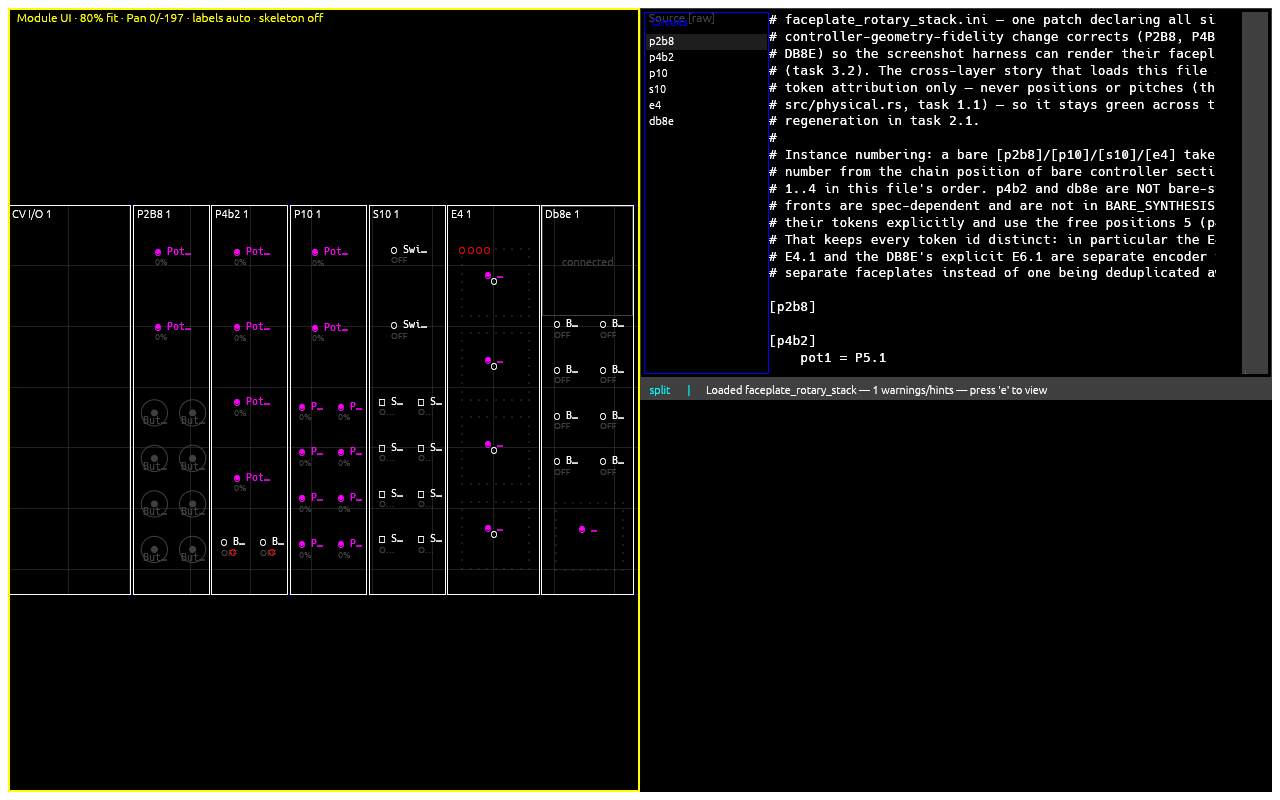
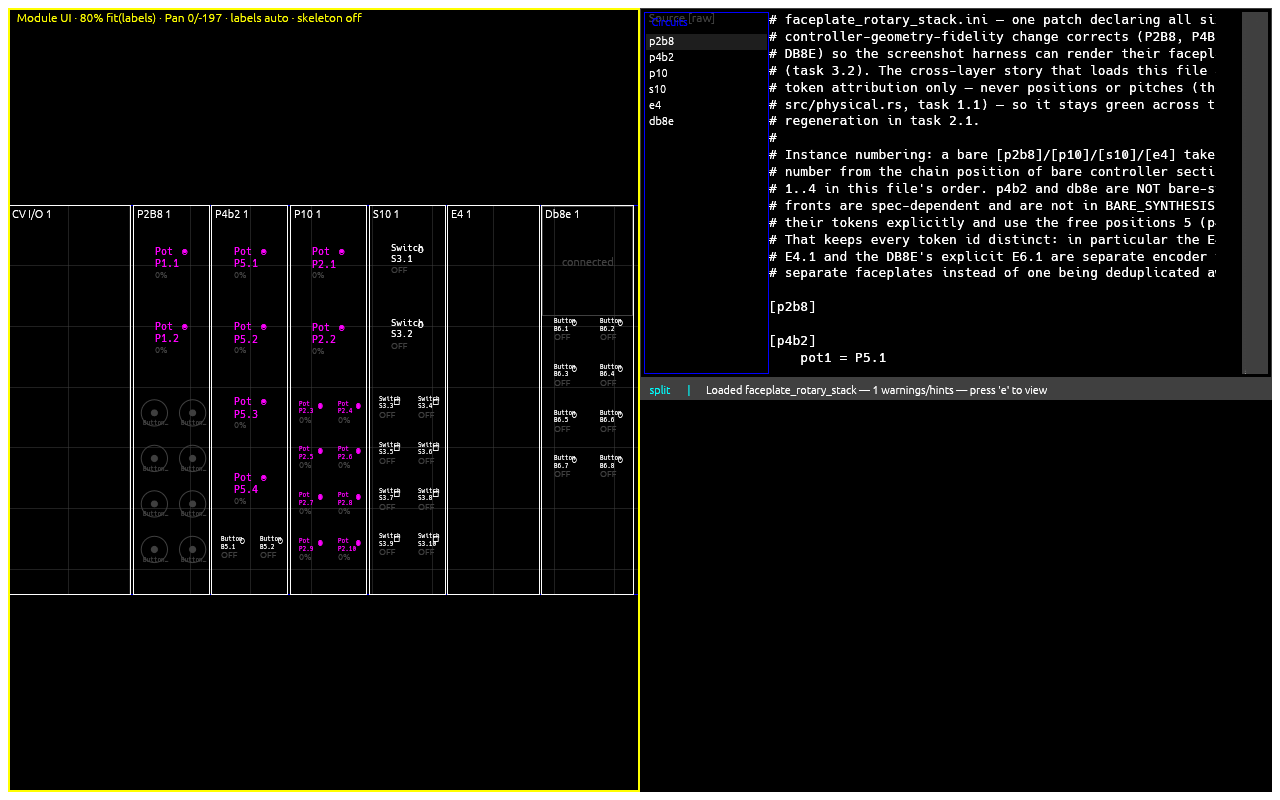
3.4: docs and shots show the labels fit, the rack fit and the ladder

diff --git a/tools/screenshots/src/main.rs b/tools/screenshots/src/main.rs
@@ -65,6 +65,8 @@ pub mod patch;
 pub mod performance;
 #[path = "../../../src/physical.rs"]
 pub mod physical;
+#[path = "../../../src/platform.rs"]
+pub mod platform;
 #[path = "../../../src/plugin.rs"]
 pub mod plugin;
 #[path = "../../../src/rendermetrics.rs"]
@@ -131,23 +133,23 @@ struct Shot {
 
 fn setup_startup(_app: &mut App) {}
 
-/// The annotation-layer shot (change `module-ui-labels`, task 3.4): the startup
-/// arrangement at true 1:1, the size `fixtures/module_ui_labels.ini`'s preamble
-/// labels were chosen for — at 1:1 a 9 mm B32 button cell budgets five 10 pt
-/// characters, so "Trigger input" and "Clock reset" clip while "Go" fits, and
-/// the default `auto` presentation annotates exactly the two clipped labels.
+/// The rack-fit overview (change `module-ui-label-fit`, task 3.4): the module
+/// UI's `Shift+F` state — the whole rack fitted to the pane and centred, with no
+/// label lift — beside `module-ui-labels.png`'s labels fit.
 ///
-/// The startup fit would scale this ~91 mm rack past 1:1 (the harness pane is
-/// taller than one true-size rack), which both hides the clipping and leaves no
-/// side band for the callouts, so the shot pins the zoom. The camera is centred
-/// for the pinned zoom without hard-coding a layout number: the startup pane is
-/// published through the same `refresh_hit_geometry` call the first painted
-/// frame makes, one fit gives the rack's real extent (the fit offset is
-/// `(rack·zoom − pane)/2` per axis), and the pinned offset re-centres that same
-/// extent. The manual-navigation latch then keeps the pane-resize trigger from
-/// refitting over the pinned camera. Field writes before paint only —
+/// `fixtures/physical_multirow_rack.ini` packs seventeen faceplates into one
+/// ~457 mm row, so the rack fit lands at 37 % and the cells are far too small for
+/// most labels: only the 12 mm pot cells still hold a two-line floor-step label,
+/// and every 9 mm button, 3 mm LED and switch cell renders without text. That is
+/// the trade the overview makes, and the pane title says `fit(rack)` so the state
+/// reads as requested rather than as a regression.
+///
+/// The startup pane is published through the same `refresh_hit_geometry` call
+/// the first painted frame makes, so the fit measures the pane actually drawn.
+/// The manual-navigation latch then keeps the first frame's labels fit from
+/// overwriting the rack fit this shot is about. Field writes before paint only —
 /// deterministic, no input.
-fn setup_labels_auto(app: &mut App) {
+fn setup_rack_fit(app: &mut App) {
     setup_startup(app);
     app.refresh_hit_geometry(app::Rect::new(0, 0, VIEWPORT.0 as u16, VIEWPORT.1 as u16));
     let Some((_, pane)) = app
@@ -158,22 +160,7 @@ fn setup_labels_auto(app: &mut App) {
         return;
     };
     let (pane_w, pane_h) = (pane.width as f32, pane.height as f32);
-    if !app.fit_physical_view(pane_w, pane_h) {
-        return;
-    }
-    let fit = app.physical_zoom as f64;
-    let (off_x, off_y) = (app.physical_offset.0 as f64, app.physical_offset.1 as f64);
-    let rack_w = (pane_w as f64 + 2.0 * off_x) / fit;
-    let rack_h = (pane_h as f64 + 2.0 * off_y) / fit;
-    app.physical_zoom = 1.0;
-    app.scale_factor = 1.0;
-    app.physical_offset = (
-        ((rack_w - pane_w as f64) / 2.0) as f32,
-        ((rack_h - pane_h as f64) / 2.0) as f32,
-    );
-    // 1:1 is the shot's subject, not the pane's fit, so the title carries the
-    // plain zoom; the latch keeps the first frame's fit trigger inert.
-    app.physical_fit_zoom = None;
+    app.fit_physical_view_rack(pane_w, pane_h);
     app.physical_fit_pending = false;
     app.physical_nav_latched = true;
 }
@@ -261,18 +248,30 @@ fn shots() -> Vec<Shot> {
             fixture: "fixtures/own_buttons.ini",
             setup: setup_startup,
         },
-        // Label-annotation check (change `module-ui-labels`, task 3.4): the
-        // fixture's preamble labels are sized for the B32's 9 mm button cells
-        // at true 1:1, so "Trigger input" and "Clock reset" overflow their
-        // cells while "Go" fits. Under the default `auto` presentation the
-        // two clipped labels become side-bound callouts with leader lines and
-        // "Go" is never annotated, in the same frame that shows the rack at
-        // true size (fit-on-open, centred). No field write beyond the startup
-        // arrangement: the annotation layer is the shipped default.
+        // Fitted-label check (change `module-ui-label-fit`, task 3.4): the
+        // ladder-branch fixture carries one written label per outcome the
+        // per-cell ladder can reach — a 9 mm button label that wraps, a 12 mm
+        // pot label at the 10 pt top step, a 7 mm jack label that steps down, a
+        // P8S8 fader label stacked glyph-per-line beside the narrowed track, and
+        // a 3 mm LED label no supported zoom can draw whole — so the default
+        // view (the fit(labels) fit, applied by the first painted frame) shows
+        // every label inside its own cell and the one impossible label annotated
+        // outside the rack by the `auto` presentation. No field write: this is
+        // the shipped startup state.
         Shot {
             file: "module-ui-labels.png",
-            fixture: "fixtures/module_ui_labels.ini",
-            setup: setup_labels_auto,
+            fixture: "fixtures/module_ui_label_fit.ini",
+            setup: setup_startup,
+        },
+        // Rack-fit overview (same task): the same pane, `Shift+F` instead of the
+        // default `f` — seventeen faceplates fitted whole and centred, with the
+        // labels shrunk away wherever a cell can no longer hold one, and the
+        // title naming `fit(rack)`. The counterpart the docs point at when they
+        // explain which fit is which.
+        Shot {
+            file: "module-ui-fit-rack.png",
+            fixture: "fixtures/physical_multirow_rack.ini",
+            setup: setup_rack_fit,
         },
         Shot {
             file: "graph.png",
@@ -463,7 +462,7 @@ fn fnv1a(bytes: &[u8]) -> u64 {
 fn usage() -> ! {
     eprintln!("usage: screenshots [--root DIR] [--out DIR] [--bless] [--only a,b,c]");
     eprintln!(
-        "  shots: module-ui, module-ui-labels, graph, source-viewer, optimizer, faceplate-rotary-stack, button-led-composition, led-register-colour, unreferenced-elements, shift-colour, s10-switch-kinds, sections-lanes, sections-scale, force-arrangement, large-startup, large-graph"
+        "  shots: module-ui, module-ui-labels, module-ui-fit-rack, graph, source-viewer, optimizer, faceplate-rotary-stack, button-led-composition, led-register-colour, unreferenced-elements, shift-colour, s10-switch-kinds, sections-lanes, sections-scale, force-arrangement, large-startup, large-graph"
     );
     std::process::exit(2);
 }
@@ -508,6 +507,7 @@ fn main() {
     let names = [
         "module-ui",
         "module-ui-labels",
+        "module-ui-fit-rack",
         "graph",
         "source-viewer",
         "optimizer",

diff --git a/tools/screenshots/README.md b/tools/screenshots/README.md
@@ -7,8 +7,9 @@ through the app's real egui dispatch — headless, no window, no hand captures.
 
 | PNG | Fixture | Arrangement |
 |---|---|---|
-| `module-ui.png` | `fixtures/own_buttons.ini` | startup: module UI (left big) at its fit zoom + source viewer (small) |
-| `module-ui-labels.png` | `fixtures/module_ui_labels.ini` | startup at a pinned true 1:1 camera (`setup_labels_auto`): module UI (left big) + source viewer (small); the default `auto` presentation annotates the two clipped preamble labels as side-bound callouts while the fitting label stays in its cell |
+| `module-ui.png` | `fixtures/own_buttons.ini` | startup: module UI (left big) at its labels fit + source viewer (small) |
+| `module-ui-labels.png` | `fixtures/module_ui_label_fit.ini` | startup: module UI (left big) at its labels fit + source viewer (small); one written label per ladder outcome — a wrapped button label, a top-step pot label, a stepped-down jack label, a stacked fader column — plus the 3 mm LED label the default `auto` presentation annotates outside the rack |
+| `module-ui-fit-rack.png` | `fixtures/physical_multirow_rack.ini` | startup at the rack fit (`setup_rack_fit`): module UI (left big) + source viewer (small); seventeen faceplates in one ~457 mm row fitted whole at 37 %, where only the 12 mm pot cells still hold a label |
 | `graph.png` | `fixtures/own_buttons.ini` | + signal-flow graph (right big) |
 | `source-viewer.png` | `fixtures/source_navigation.ini` | source viewer maximized |
 | `optimizer.png` | `fixtures/optimizer_latency.ini` | + latency optimizer (small) |
@@ -39,27 +40,40 @@ rendering 38 px wide at the old nominal scale.
 Every module-UI-bearing shot now renders at true 1:1 (change
 `module-ui-labels`, task 3.4): 100 % zoom is 3.7795 pt per millimetre, so a
 9 mm button cell is 34 pt and a 12 mm pot 45 pt, and the pane fits and centres
-the rack itself on its first frame. Each shot's pane title carries the live
-state (`Module UI · 161% fit · labels auto · skeleton off`), so the fit
-percentage printed in the image is the evidence. The `setup_faceplate_stack`
-2x seed is now superseded by that fit (207 mm at 2x would overflow the pane);
-it stays as the pre-fit camera. The graph, optimizer, and source-viewer panes
-are unaffected: every graph-bearing shot's right pane is pixel-identical to
-its pre-change render, and `source-viewer.png` is byte-identical.
+the rack itself on its first frame — at the labels fit since change
+`module-ui-label-fit` (task 3.4), which may exceed the pane. Each shot's pane
+title carries the live state (`Module UI · 161% fit(labels) · labels auto ·
+skeleton off`), so the fit percentage printed in the image is the evidence. The
+`setup_faceplate_stack` 2x seed is now superseded by that fit (207 mm at 2x
+would overflow the pane); it stays as the pre-fit camera. The graph, optimizer,
+and source-viewer panes are unaffected: every graph-bearing shot's right pane is
+pixel-identical to its pre-change render, and `source-viewer.png` is
+byte-identical.
 
-`module-ui-labels.png` is the visual check for change `module-ui-labels`
-(task 3.4) and the only shot that pins the camera instead of taking the fit.
-`fixtures/module_ui_labels.ini`'s three preamble labels are chosen for the
-B32's 9 mm buttons at true 1:1 — "Go" fits the cell's five-character budget
-while "Trigger input" and "Clock reset" clip — so at 1:1 the default `auto`
-presentation annotates exactly the two clipped labels as side-bound callouts
-with leader lines and the resolved state, and leaves "Go" alone on the rack.
-The camera is centred at 1:1 (`setup_labels_auto`) because the fitted zoom
-would both scale the rack past the size the fixture measures and leave no side
-band for the callouts. The other two modes need no shot: `off` draws no
-annotations and `on` annotates every addressed label, both pinned by the
-`src/gui/physical.rs` and `src/regression.rs` tests, so this shot carries the
-clipping-driven rule that makes `auto` the default.
+`module-ui-labels.png` and `module-ui-fit-rack.png` are the visual check for
+change `module-ui-label-fit` (task 3.4), one shot per fit. The labels shot runs
+`fixtures/module_ui_label_fit.ini`, whose preamble labels reach every outcome the
+per-cell ladder can produce at the zoom the view opens with: the 9 mm button
+label wraps to three lines, the 12 mm pot label keeps the 10 pt top step, the
+7 mm jack label steps down, the P8S8 fader label stacks one glyph per line
+beside its narrowed track, and the 3 mm LED label — which no supported zoom can
+draw whole — is the one label the default `auto` presentation annotates, outside
+the rack with a leader line. The shot is plain startup: the fit triggers run on
+the first painted frame, so 149 % and the `fit(labels)` title are the shipped
+default, not a seeded camera.
+
+`module-ui-fit-rack.png` is the same pane after `Shift+F` (`setup_rack_fit`,
+which publishes the pane through `refresh_hit_geometry` and then applies
+`App::fit_physical_view_rack`, latching the view so the first frame's labels fit
+cannot overwrite it). Its fixture is the only one big enough to make the two
+fits differ: `fixtures/physical_multirow_rack.ini` packs seventeen faceplates
+into one ~457 mm row, so the rack fit is 37 % and the cells are far too small
+for most labels — every 9 mm button, 3 mm LED and switch cell renders without
+text, and only the 12 mm pot cells still hold a two-line floor-step label. That
+is the trade the overview makes, and the `fit(rack)` title says it was asked
+for. The other two presentation modes need no shot: `off` draws no annotations
+and `on` annotates every written label, both pinned by the `src/gui/physical.rs`
+and `src/regression.rs` tests.
 
 Resolved gap (change `unreferenced-elements`, task 3.2): the E4 32-LED rings
 now render complete — unreferenced ring segments paint dimmed and unlabelled,

diff --git a/docs/views.md b/docs/views.md
@@ -23,6 +23,41 @@ element of a declared controller renders at its faceplate position;
 unused elements are drawn dimmed and unlabelled. LEDs fold into their
 element and render the patch's LED color/brightness.
 
+**Labels are fitted per cell.** A cell's label is drawn at the largest
+step of a 10, 9, 8, 7, 6 pt monospace ladder at which the whole label
+fits the cell's text box, wrapping at word boundaries, breaking a word
+only when a single word is too long for a line, and ellipsizing only
+when even the 6 pt floor cannot hold the label. Nothing on the surface
+is drawn below 6 pt. A cell that cannot fit its label at the floor — a
+3 mm LED, or anything at an extreme zoom — draws no text and leaves the
+label to the hover reveal and the label presentation. In-cell state text
+yields to the label: when a cell cannot hold both, the label is drawn
+and the state row is dropped, with the full label and the state still in
+the hover reveal and the pane's status segment (fader and LED state stay
+graphical either way). A tall narrow fader cell narrows its track and
+stacks its label one glyph per line in the column beside it.
+
+**The view opens at the labels fit.** Fitting happens when the view
+opens, when a patch loads, when the rack changes, and when the pane is
+resized — until you zoom or pan yourself, which the view then leaves
+alone until you ask for a fit again. Both fits scale the rack and centre
+it. `f` is the labels fit: the fitted zoom is the greater of the
+whole-rack fit and the zoom every written label needs to be drawn whole,
+so a dense patch opens zoomed past the pane and pans rather than
+shrinking its labels away. `Shift+F` is the rack fit, the overview — the
+whole rack in the pane, with labels shrinking away wherever the cells
+become too small. The pane title and the status line name the fit that
+ran (`fit(labels)` / `fit(rack)`), and drop the name once you zoom or
+pan yourself.
+
+`a` cycles the label presentation. `off` draws in-cell labels only; `on`
+annotates every addressed element that carries a written label, outside
+the rack with a leader line; `auto` — the default — annotates exactly the
+written labels whose cell cannot draw them whole at the current zoom,
+which after the labels fit is nearly always none, so `auto` stays silent
+on a patch whose labels fit. Annotations add no hit rects and never move
+the drawn cells.
+
 - `j`/`k` and arrows navigate, `Enter`/`Space` toggles the hovered
   component, the mouse wheel adjusts knobs/faders.
 - Click an element to **focus** it across surfaces: the cell stays
@@ -34,11 +69,14 @@ element and render the patch's LED color/brightness.
 - Hold or latch a modifier to wash the influenced cells: mouse-down on
   a modifier-eligible cell holds momentarily; `m` on the hovered
   component (or `Ctrl+Shift+Click`) latches until `Esc`.
-- `+`/`-` cycle zoom presets (75–200 %), arrows/wheel pan when the
-  rack overflows, `s` toggles the skeleton reference presentation,
-  `p` opens the [performance view](#performance-view), `R` resets all
-  element states, `e` edits the label (or opens validation).
+- `+`/`-` cycle zoom presets (75–200 %), arrows pan when the rack
+  overflows, the wheel adjusts a knob/fader and zooms about the pointer
+  elsewhere, `s` toggles the skeleton reference presentation, `p` opens
+  the [performance view](#performance-view), `R` resets all element
+  states, `e` edits the label (or opens validation).
   ![Module UI](assets/module-ui.png)
+  ![Module UI at the labels fit](assets/module-ui-labels.png)
+  ![Module UI at the rack fit](assets/module-ui-fit-rack.png)
 
 ## Source viewer (`g v`)
 

diff --git a/openspec/changes/module-ui-label-fit/tasks.md b/openspec/changes/module-ui-label-fit/tasks.md
@@ -20,7 +20,7 @@
 - [x] 3.1 Invert the constant-font regressions into a ladder matrix (`painted_physical_label_sizes` and the anchor story now assert the step each cell's own geometry allows, and that no run is below 6 pt), narrow the `auto` annotation story to written labels with no in-cell layout, and keep the mode-invariance assertion on the published rects and skeleton. Verify with `cargo test regression::` and `cargo test gui::physical::`. <!-- agent: horst-engineer.build, depends_on: [1.4, 2.3], touches: [src/regression.rs, src/gui/physical.rs] -->
 - [x] 3.2 Add `fixtures/module_ui_label_fit.ini`: a long written label on a 9 mm button, a short one on a 12 mm pot, a written label on a 7 mm jack, a written label on a P8S8 fader, and a written label on a 3 mm LED, so one fixture exercises every ladder branch plus the annotation fallback. Add the cross-layer story over it. Verify with `cargo test regression::`. <!-- agent: horst-engineer.build, depends_on: [3.1], touches: [fixtures/module_ui_label_fit.ini, src/regression.rs] -->
 - [x] 3.3 Measure the per-frame label layout on the scale anchor (spec build and a warm headless paint, as the gate's module doc already records for the label budget) and extend `tests/perf_gate.rs` only if the cost is not negligible; record the numbers and the decision. Verify with `cargo test --release --test perf_gate --locked`. <!-- agent: horst-engineer.fast, depends_on: [1.3], touches: [tests/perf_gate.rs] -->
-- [ ] 3.4 Re-render the module-UI documentation shots (fit(labels) as the default, one shot at fit(rack) for the overview) and update `docs/views.md`, plus the label and zoom rows in `docs/config.md` and the fit rows in `docs/keys.md`, including the restated `auto` meaning and the 6 pt floor. Verify by reading the regenerated images and the rendered pages. <!-- agent: devops-engineer.fast, depends_on: [3.2], touches: [docs/**, tools/screenshots/**] -->
+- [x] 3.4 Re-render the module-UI documentation shots (fit(labels) as the default, one shot at fit(rack) for the overview) and update `docs/views.md`, plus the label and zoom rows in `docs/config.md` and the fit rows in `docs/keys.md`, including the restated `auto` meaning and the 6 pt floor. Verify by reading the regenerated images and the rendered pages. <!-- agent: devops-engineer.fast, depends_on: [3.2], touches: [docs/**, tools/screenshots/**] -->
 - [ ] 3.5 Run the full gate at CI parity — `cargo fmt --check`, `cargo clippy --all-targets --all-features --locked -- -D warnings`, `cargo test --locked`, `cargo build --release --locked`, and the release perf gate — and confirm every command exits 0. <!-- agent: horst-engineer.fast, depends_on: [3.3, 3.4, 3.6, 3.7], touches: [] -->
 - [x] 3.6 Wire the module UI's fader cell: `CellSpec.is_fader` and `fader_value` were never set from a loaded patch, so D5's fader path (narrowed track, stacked label, value bar) was unreachable — every P8S8/M4 fader painted as a compact cell. Derive the flag from the geometry cell's `F` family and the value from the component state, and pin the branch with a paint test plus the `module_ui_label_fit` story. <!-- agent: frontend-engineer, depends_on: [1.3], touches: [src/gui/physical.rs] -->
 - [x] 3.7 Omit a fader's state row when its text column cannot hold it: the layout reserves the row by height, but a 1:1 P8S8 column is ~6.5 pt wide and the painter clips the value to a bare `…`. Make `label_layout` report `state_row = false` when the fader column cannot hold at least two characters of the state font, and pin it with a unit test. <!-- agent: rusty-engineer.build, depends_on: [3.6], touches: [src/physical.rs] -->

diff --git a/docs/config.md b/docs/config.md
@@ -24,6 +24,7 @@ mode = "column"      # or "force"
 ordering = "strict"  # or "barycenter"
 
 [physical]
+labels = "auto"      # off / auto / on
 zoom = 1.0
 offset_x = 0.0
 offset_y = 0.0
@@ -64,9 +65,33 @@ comes from theme tokens — no hardcoded RGB.
 
 ### `[physical]` / `[physical.rack]`
 
-Module-UI presentation defaults (zoom, pan origin) plus the optional
-rack/case row definition. Omit `[physical.rack]` for the auto-packed
-default case. `+`/`-` adjust zoom at runtime.
+Module-UI presentation defaults — the label presentation and a zoom/pan
+seed — plus the optional rack/case row definition. Omit `[physical.rack]`
+for the auto-packed default case.
+
+- `labels` (`auto` default, `off`, `on`): how labels reach you. `off`
+  draws them inside their cells only. `on` also annotates every addressed
+  element that carries a written label, outside the rack with a leader
+  line. `auto` annotates exactly the written labels whose cell cannot draw
+  them whole at the current zoom; because the default view fits every
+  written label into its cell, that set is normally empty, so `auto` is
+  silent on a patch whose labels fit and only speaks for a label no
+  supported zoom can hold (a long label on a 3 mm LED, say). An unknown
+  value warns once and falls back to `auto`.
+- `zoom` (clamped to 0.25–4.0, default `1.0`): the zoom seed, where `1.0`
+  is true size (one millimetre is 3.7795 pt). The view fits itself on its
+  first frame, so the opening zoom is the fit's rather than the seed's;
+  `+`/`-` step the presets and the wheel zooms at runtime.
+- `offset_x` / `offset_y` (points, default `0.0`): the pan seed, replaced
+  on that same first frame by the fit's centring.
+
+The view opens at the **labels fit**: the greater of the whole-rack fit
+and the zoom every written label needs to be drawn whole, clamped to the
+supported range, so a dense rack opens zoomed past the pane and pans.
+`f` re-applies it and `Shift+F` applies the **rack fit** instead — the
+whole rack in the pane, labels shrinking away where cells become too
+small. The status line names which ran (`fit(labels)` / `fit(rack)`).
+Neither the fit nor its mode is written back to this file.
 
 ### `[plugins]`
 

diff --git a/docs/keys.md b/docs/keys.md
@@ -14,7 +14,10 @@ coloring).
 | `click` | focus element across source + graph |
 | `Enter`/`Space` | toggle component |
 | `+`/`-` | zoom presets |
-| `arrows`/`wheel` | pan rack on overflow |
+| `f` / `Shift+F` | fit written labels, each in its cell (rack may pan) / fit whole rack to pane (overview) |
+| `a` | cycle label presentation |
+| `arrows` | pan rack on overflow |
+| `wheel` | adjust knob/fader, else zoom about pointer |
 | `s` | toggle skeleton presentation |
 | `m` | latch modifier on hovered component |
 | `e` | edit label / validation modal |

diff --git a/docs/assets/README.md b/docs/assets/README.md
@@ -3,6 +3,8 @@
 PNG screenshots referenced by the manual live here:
 
 - `module-ui.png` — Module UI + source viewer (getting-started, views)
+- `module-ui-labels.png` — Module UI at the labels fit, one label per ladder outcome (views)
+- `module-ui-fit-rack.png` — Module UI at the rack fit, whole rack at 37 % (views)
 - `graph.png` — signal-flow graph (getting-started, views)
 - `source-viewer.png` — source viewer close-up (views)
 - `optimizer.png` — latency optimizer pane (views)
